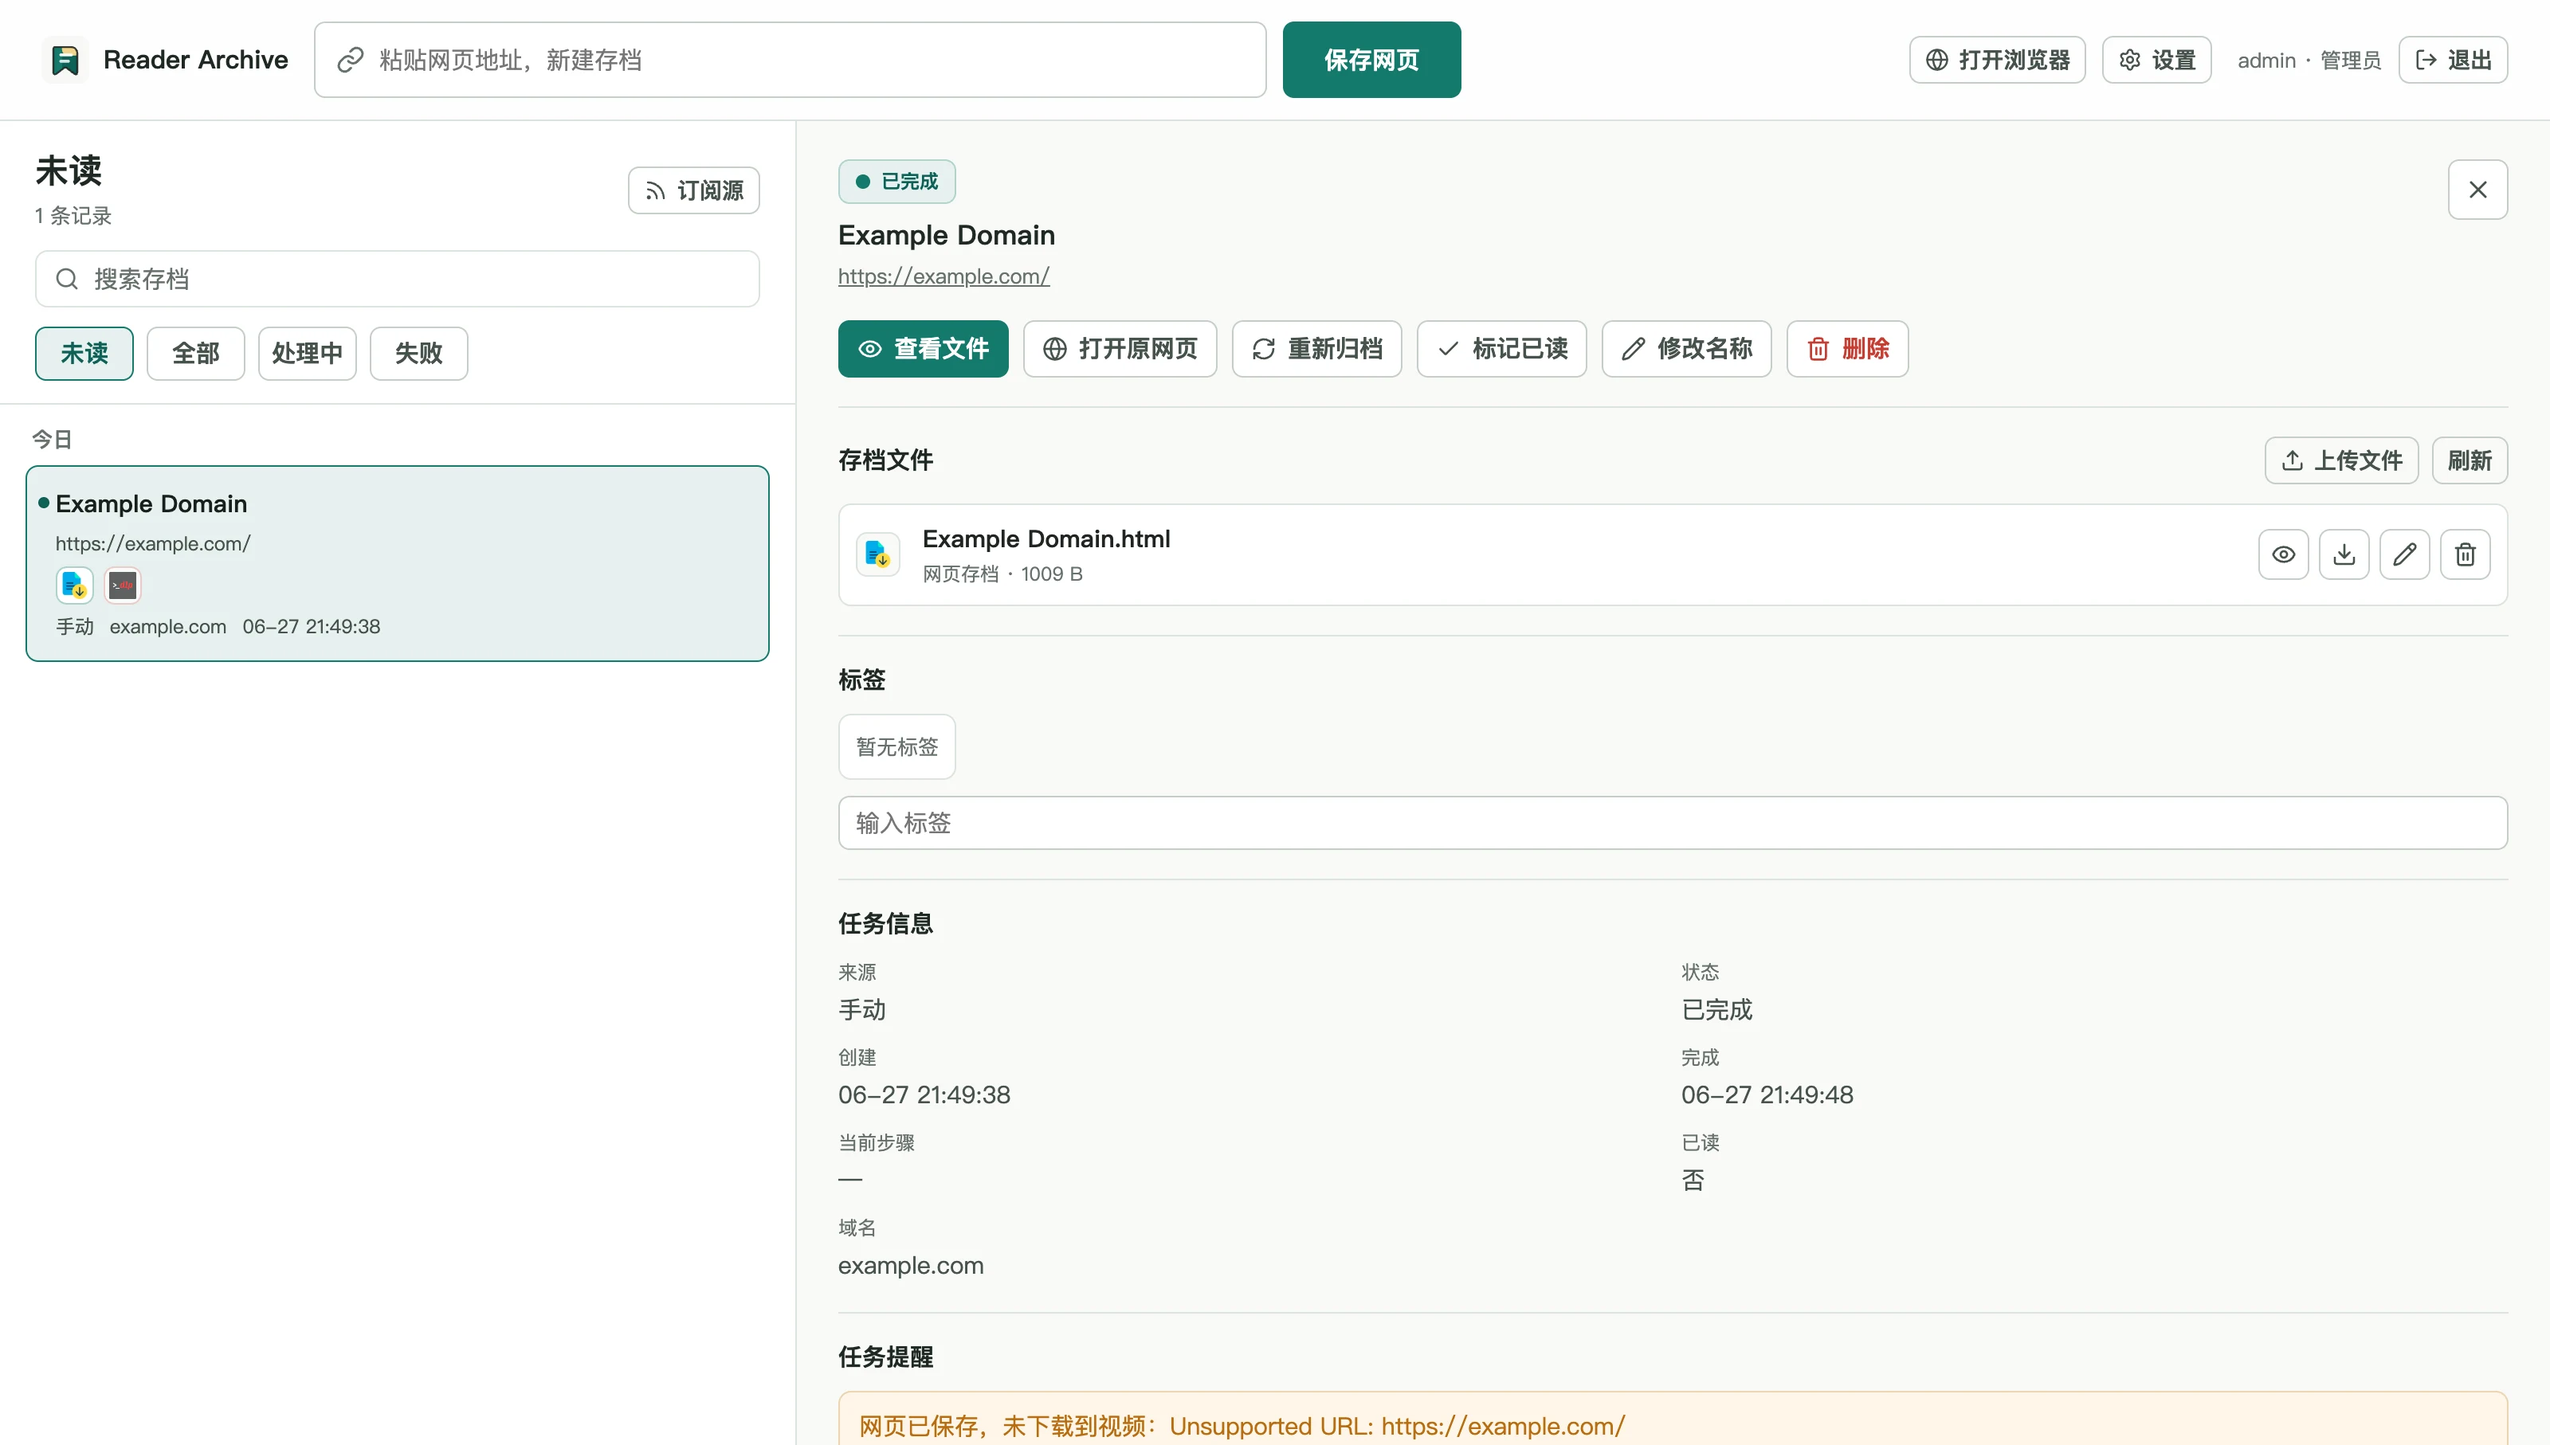
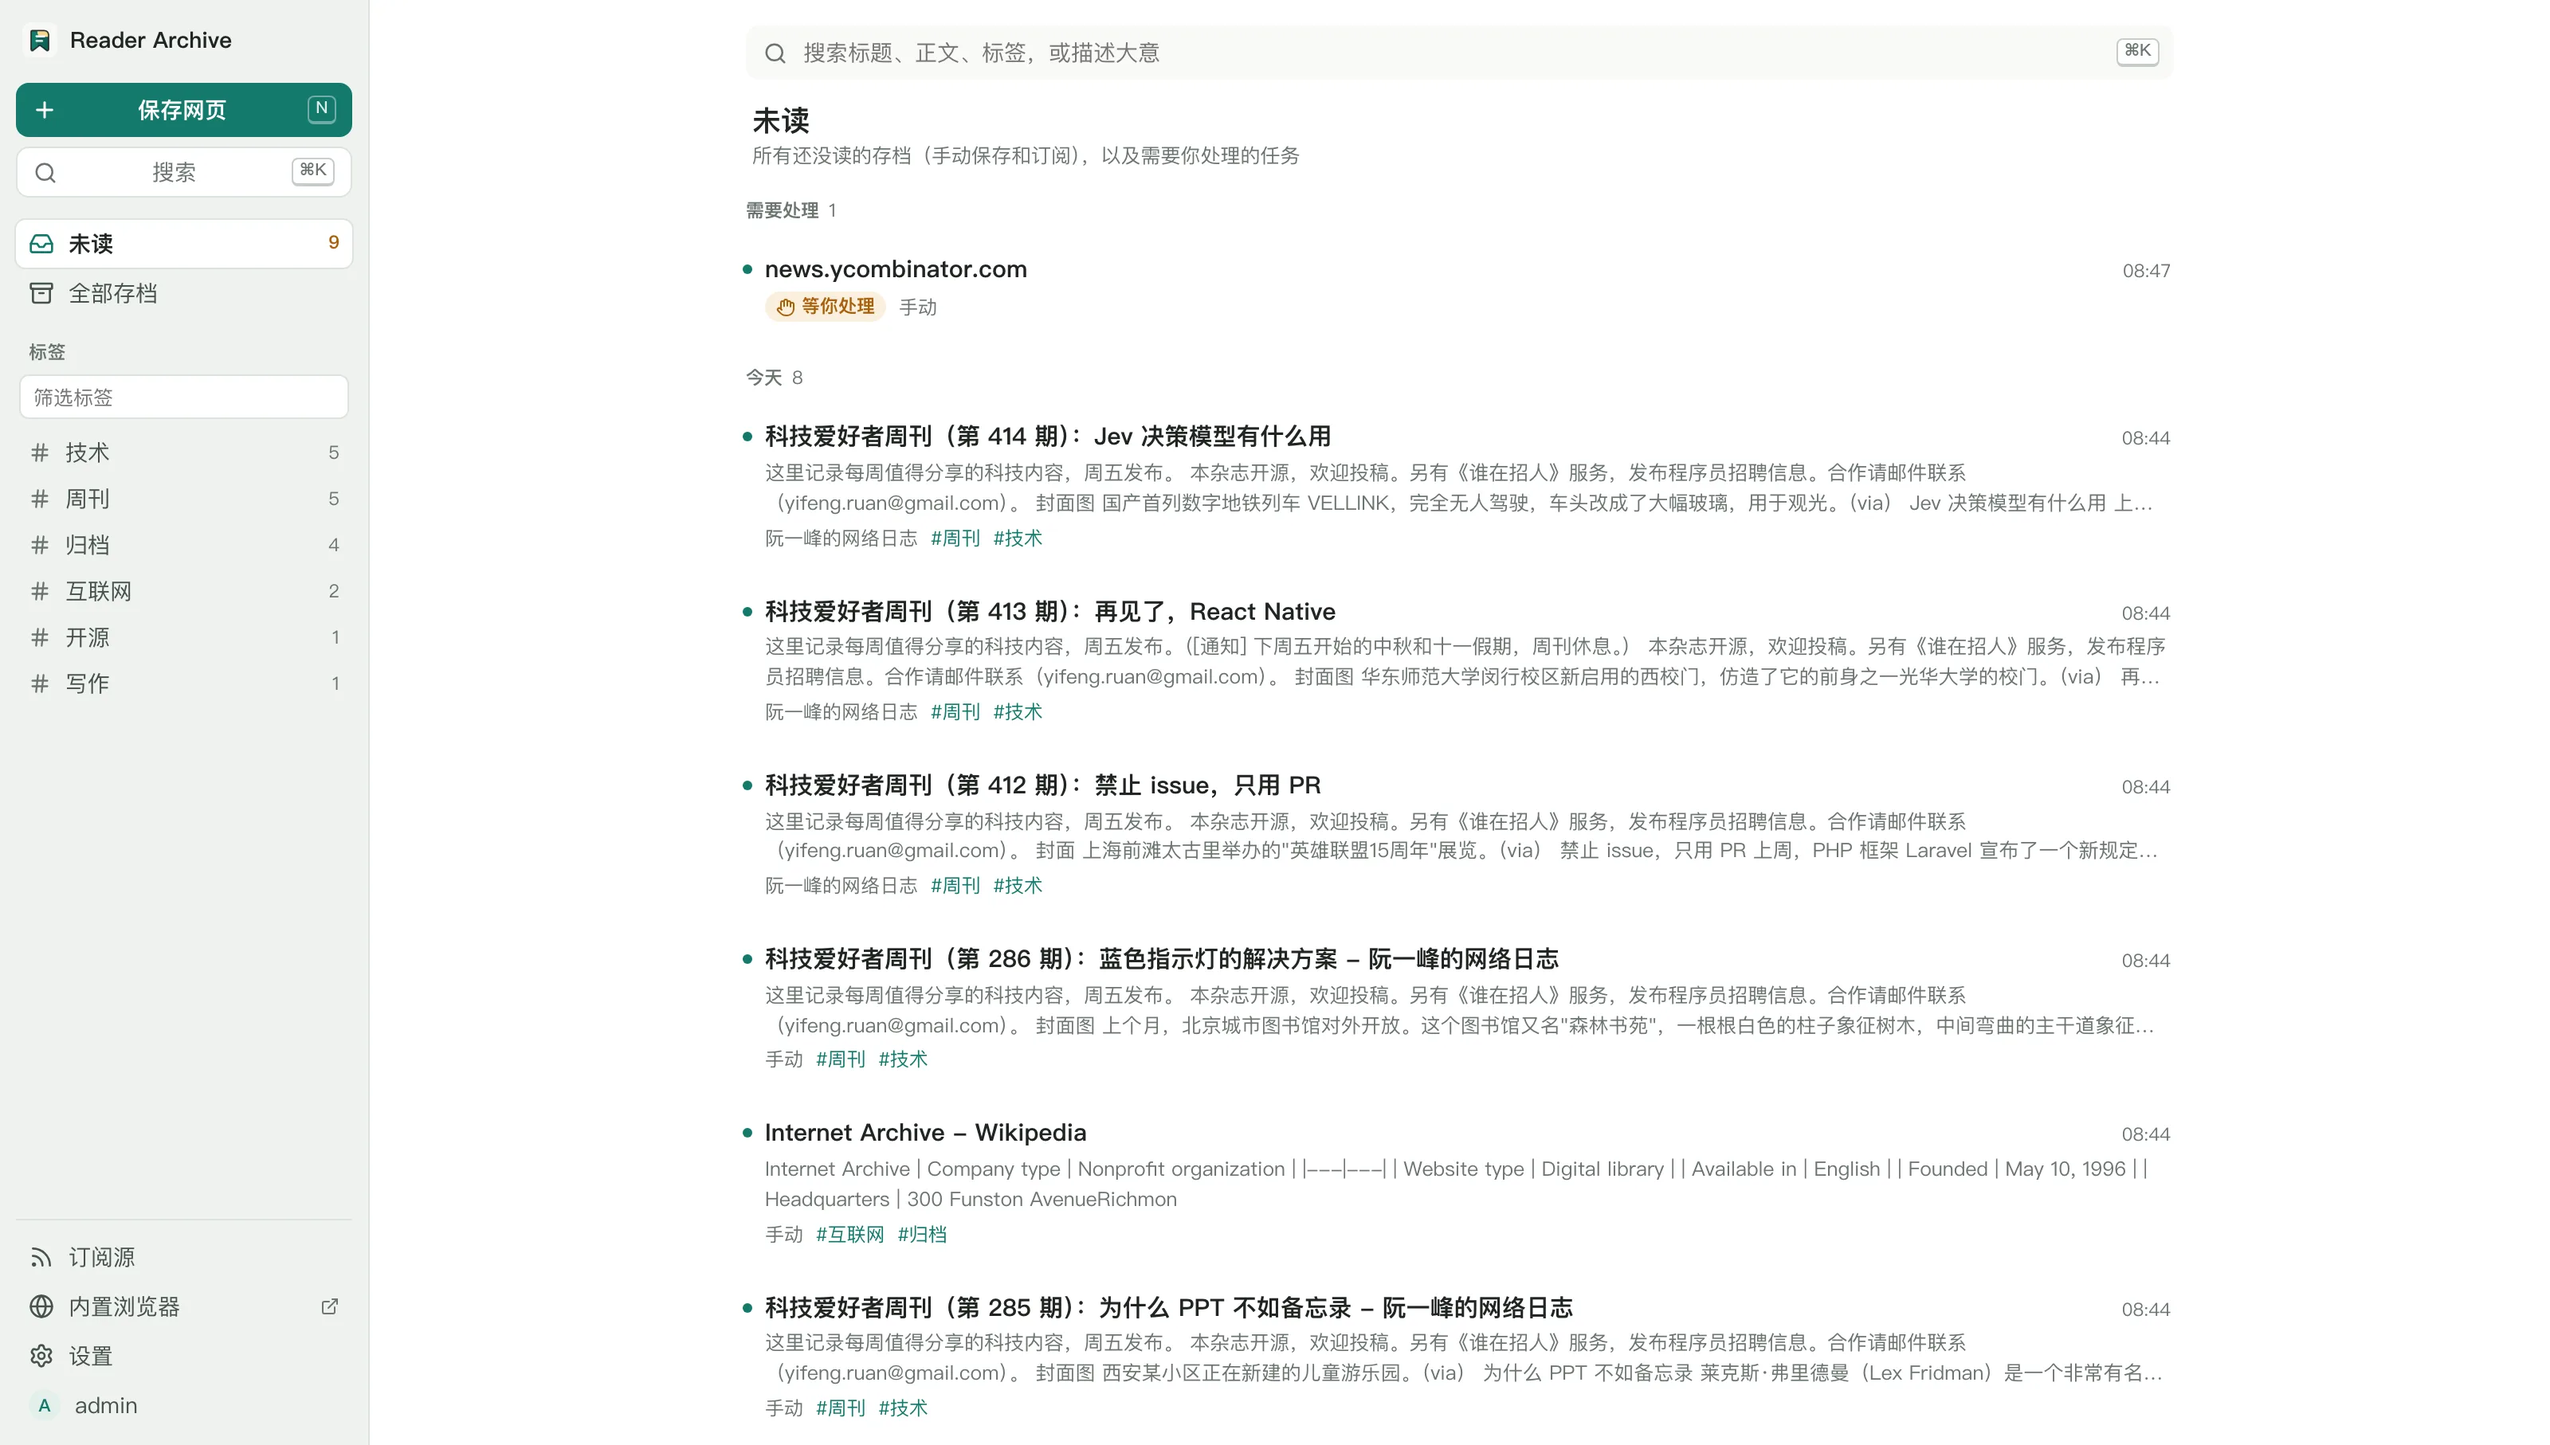
docs: update screenshots for the redesigned interface

diff --git a/README.md b/README.md
@@ -6,9 +6,13 @@ It packages a web app, an API service, PostgreSQL, SingleFile, yt-dlp, and a bro
 
 ## Screenshots
 
-### Archive list and details
+### Archive list
 
-![Reader Archive list and details](docs/images/archive-list.webp)
+![Reader Archive unread list](docs/images/archive-list.webp)
+
+### Reader window
+
+![Reader Archive reader window](docs/images/reader.webp)
 
 ### Settings
 
